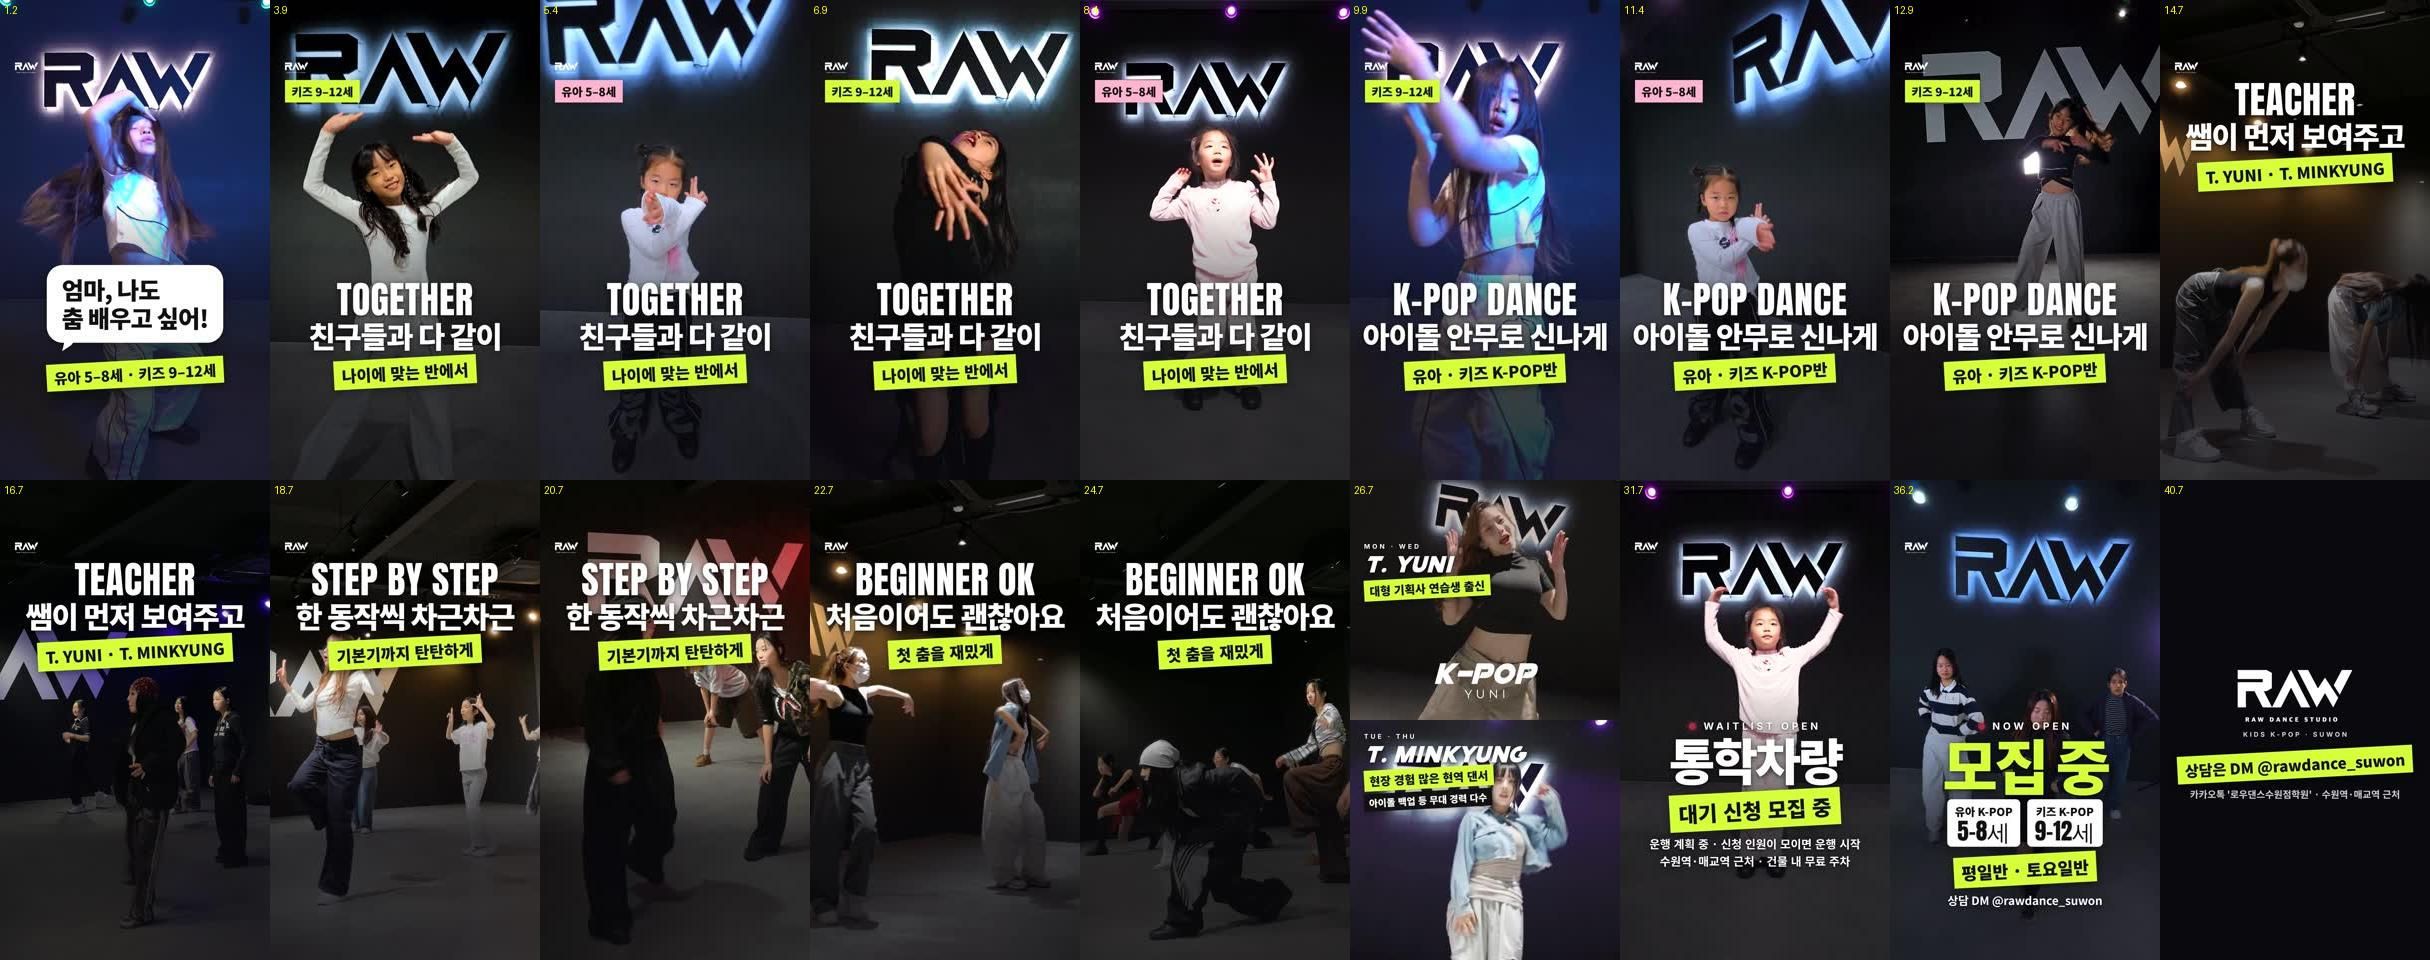
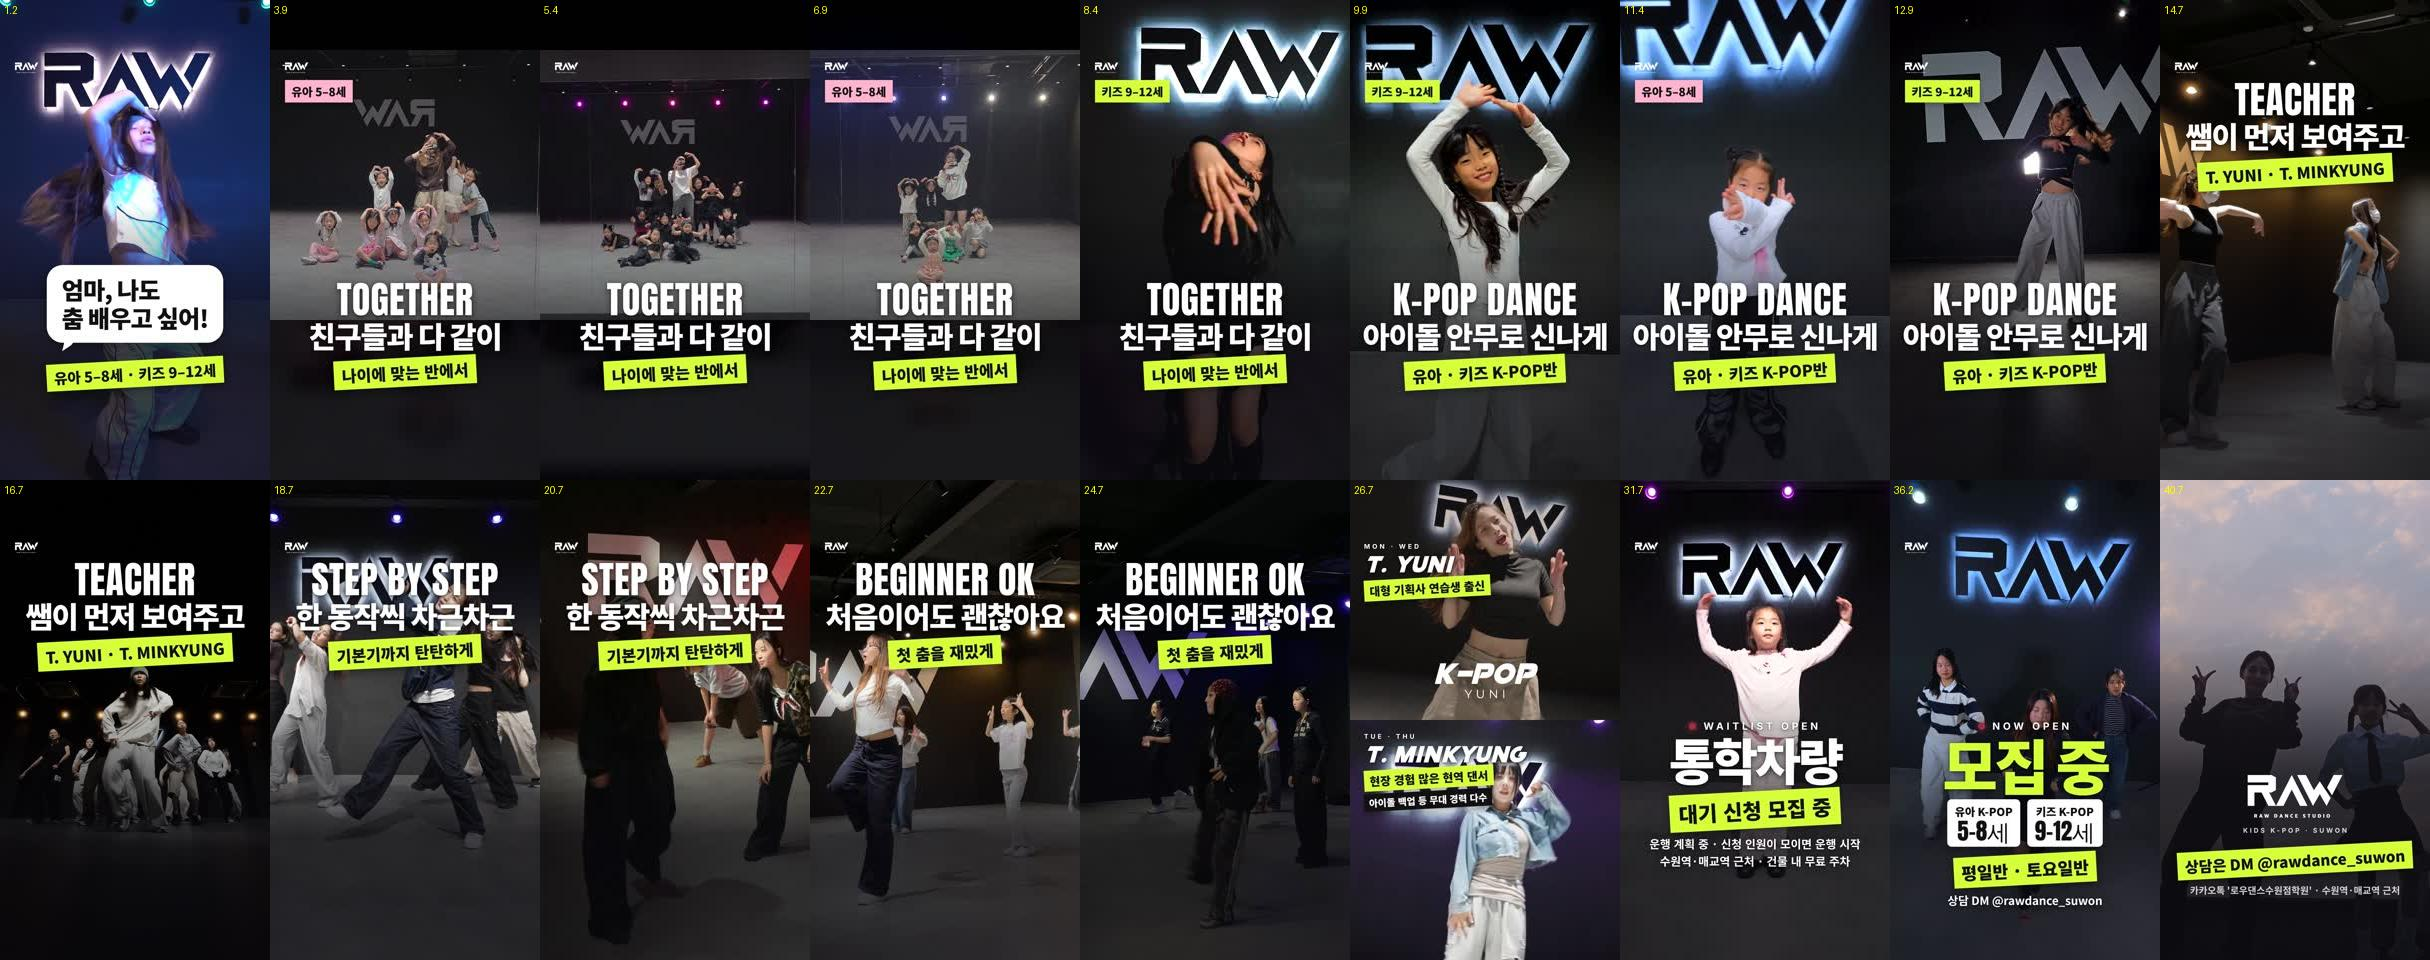
K-POP 광고 B2: 영상마다 한 번만 (하트 단체샷·유니쌤 C1912·민경쌤 시퀀스26 추가), 엔딩 옥상 인사 영상
Claude-Session: https://claude.ai/code/session_01CMPXWNa21Fqq6srPZpa27D

diff --git a/content/2026-11-20_kpop-kids-reels3/reels.html b/content/2026-11-20_kpop-kids-reels3/reels.html
@@ -148,6 +148,8 @@ window.render=t=>{
     I.querySelectorAll('.cls div').forEach((c,j)=>{ const p=eo((v-0.3-0.12*j)/0.2); c.style.opacity=p; c.style.transform=`translateY(${(1-p)*30}px)`; });
     const Vn=I.querySelector('.van'); if(Vn){ const p=eo((v-0.05)/0.22); Vn.style.transform=`scale(${1.2-0.2*p})`; Vn.style.opacity=p; }
     const M=I.querySelector('.mz'); if(M){ const p=eo((v-0.1)/0.22); M.style.transform=`scale(${1.25-0.25*p})`; M.style.opacity=p; } }
-  if(k==='logo'){ show('end',true); $('end').style.opacity=eo(v/0.35); pop($('end').querySelector('.lime'),v,0.4); }
+  if(k==='logo'){ show('end',true); const En=$('end'); En.style.background=s.bg?'linear-gradient(rgba(11,10,15,.15),rgba(11,10,15,.25) 30%,rgba(11,10,15,.82) 62%,rgba(11,10,15,.9))':'#0b0a0f';
+    En.querySelector('.c').style.top=s.bg?'1180px':'760px'; En.querySelector('img').style.width=s.bg?'380px':'460px';
+    En.style.opacity=s.bg?1:eo(v/0.35); const C=En.querySelector('.c'); C.style.opacity=eo((v-(s.bg?0.6:0))/0.4); pop(En.querySelector('.lime'),v,s.bg?0.9:0.4); }
 };
 </script></body></html>

diff --git a/content/2026-11-20_kpop-kids-reels3/make_reels.py b/content/2026-11-20_kpop-kids-reels3/make_reels.py
@@ -75,11 +75,18 @@ def seg(spec, d, out):
     lay = spec[0]
     if lay == "fill":       # 세로 꽉 채우기 (4번째 값 = 확대: 가운데 x·y 비율, 남길 크기 비율)
         f, t = spec[1], spec[2]; z = spec[3] if len(spec) > 3 else None; f = P(f)
+        if z and z[0] == "src":   # 원본에서 직접 9:16 (가운데 cx·cy, 높이 비율 hf)
+            _, cx, cy, hf = z; w0, h0 = size(f); ch = h0 * hf; cw = ch * 9 / 16
+            x = min(max(0, cx * w0 - cw / 2), w0 - cw); y = min(max(0, cy * h0 - ch / 2), h0 - ch)
+            enc(["-ss", f"{t:.3f}", "-t", f"{d:.3f}", "-i", f, "-vf", f"crop={int(cw)//2*2}:{int(ch)//2*2}:{int(x)}:{int(y)},scale=1080:1920,fps={FPS},setsar=1"], out); return
         lift = ",eq=brightness=0.05:contrast=1.08:saturation=1.12" if os.path.basename(f).startswith("m") else ""   # 민경쌤 수업 영상은 어두워서 살짝 밝게
         enc(["-ss", f"{t:.3f}", "-t", f"{d:.3f}", "-i", f, "-vf", f"{fit(f, t, d, 1080, 1920)}{zoom(z)}{lift},fps={FPS},setsar=1"], out)
     elif lay == "square":   # 정사각 티저: 뒤는 같은 영상 흐리게, 앞은 정사각 그대로 (티저 속 'K-POP 쌤이름' 글자 살림)
-        _, f, t, Y = spec; c = CUT.get(f); f = P(f)
-        sq = f"crop={c}:{c}:{(1080 - c) // 2}:0,scale=1080:1080" if c else "scale=1080:1080"
+        f, t, Y = spec[1], spec[2], spec[3]; cx = spec[4] if len(spec) > 4 else 0.5; c = CUT.get(f); f = P(f)
+        w0, h0 = size(f)
+        if c: sq = f"crop={c}:{c}:{(1080 - c) // 2}:0,scale=1080:1080"
+        elif w0 > h0: sq = f"crop=ih:ih:{int(min(max(0, cx * w0 - h0 / 2), w0 - h0))}:0,scale=1080:1080"   # 가로 단체샷: 정사각으로 (아이들 다 보이게)
+        else: sq = "scale=1080:1080"
         enc(["-ss", f"{t:.3f}", "-t", f"{d:.3f}", "-i", f, "-filter_complex",
              f"[0:v]fps={FPS},split[a][b];[a]scale=-2:1920,crop=1080:1920,boxblur=40:2,eq=brightness=-0.32[bg];[b]{sq}[fg];[bg][fg]overlay=0:{Y},setsar=1"], out)
     elif lay == "split":    # 위아래 2분할 (각 1080×960)
@@ -152,34 +159,32 @@ elif WHICH == "B":
             (8, ("fill", "1119_kids_insta.mp4", pk("1119_kids_insta.mp4", 2)[1]), INFO[0]), (8, ("fill", "1021_kids.mp4", pk("1021_kids.mp4", 2)[1]), INFO[1]),
             (8, ("fill", "clip3.mp4", 0), LOGO)]
 elif WHICH == "B2":
-    # 원장님 2026-11-20 (3차): 순서 = 엄마 나 춤 배우고 싶어 → 아이들(친구들과 다 같이 + 한 줄 더) → 쌤 수업(먼저 보여주고 · 한 동작씩 차근차근 · 처음이어도 괜찮아요)
-    #   → 쌤 2분할 → 통학차량 대기 신청 모집 중 + 유아·키즈반 모집 중 (모집 문구 눈에 띄게). 살짝 길어져도 됨. 음원은 Street Fighters 말고 다른 곡
-    # 쌤 수업 컷: YUNI(IMG_1053)·민경쌤(IMG_0620·1076·0415) 번갈아, 쌤 쪽 확대 (전문반 학생 얼굴 크게 안 나오게, 검수 조건)
+    # 원장님 2026-11-20~21 누적: 엄마 말풍선 → 아이들(TOGETHER · K-POP DANCE) → 쌤 수업(먼저 보여주고 · 차근차근 · 처음이어도) → 쌤 2분할
+    #   → 통학차량 대기 신청 모집 중 → 유아·키즈반 모집 중(체포하겠어 영상, 48초가 마지막) → 엔딩
+    # 11-21 "중복 영상이 너무 많아, 다양하게" → 영상마다 딱 한 번만 나오게:
+    #   아이들 = clip3 · 하트 단체샷 3개(nk1~3) · 1119 · 1021 · 1118 · 1104 · 1112 (9개 각 1번)
+    #   쌤 = 유니쌤 IMG_0316 · C1912 · IMG_1053 / 민경쌤 시퀀스26 · IMG_1076 · IMG_0620 (6개 각 1번)
+    #   엔딩 = 옥상 영상(nk4_roof, 인사하는 장면) 위에 로고 — 원장님 "인사하는 장면, 엔딩으로"
     song, bpm, first = "party.wav", 120.0, 0.029
-    ys, ms = yt(1, 5.2), mt(1, 5.2); ZN6 = (0.45, 0.66, 0.65)
-    # 원장님 2026-11-20 "자막 위·아래가 너무 허전" → 위에 큰 영문, 아래에 연두 띠
+    ys, ms = yt(1, 5.2), mt(1, 5.2); ZN6 = (0.45, 0.66, 0.65); ZN5 = (0.48, 0.74, 0.72); Y5 = pk("n5_img0316.mov", 1, 2.2)
     K1 = {"kind": "line", "k": "TOGETHER", "e": "친구들과 다 같이", "sub": "나이에 맞는 반에서", "y": 1130}
     K2 = {"kind": "line", "k": "K-POP DANCE", "e": "아이돌 안무로 신나게", "sub": "유아 · 키즈 K-POP반", "y": 1130}
     T1 = {"kind": "line", "k": "TEACHER", "e": "쌤이 먼저 보여주고", "sub": "T. YUNI · T. MINKYUNG", "y": 330}
     T2 = {"kind": "line", "k": "STEP BY STEP", "e": "한 동작씩 차근차근", "sub": "기본기까지 탄탄하게", "y": 330}
     T3 = {"kind": "line", "k": "BEGINNER OK", "e": "처음이어도 괜찮아요", "sub": "첫 춤을 재밌게", "y": 330}
-    ZN5 = (0.48, 0.74, 0.72); Y5 = pk("n5_img0316.mov", 2, 2.2, gap=6.0)
     used = pk("1112_yua_insta.mp4", 2)[0]; VAN = next(t for t in pk("1112_yua_insta.mp4", 4, 4.8, gap=3.0) if abs(t - used) >= 8)
     k = lambda f, i, beats, txt, tag, off=0.3: (beats, ("fill", f, pk(f, 2)[i] + off), dict(txt, tag=tag))
+    G = lambda f, cx, tag="": (3, ("square", f, 0.2, 200, cx), dict(K1, tag=tag) if tag else K1)   # 하트 단체샷 (2초 남짓)
     plan = [(6, ("fill", "clip3.mp4", pk("clip3.mp4", 2)[0]), {"kind": "bubble", "say": "엄마, 나도<br>춤 배우고 싶어!", "band": "유아 5–8세 · 키즈 9–12세"}),
-            k("1021_kids.mp4", 0, 3, K1, "키즈 9–12세"), k("1118_yua.mp4", 0, 3, K1, "유아 5–8세"), k("1119_kids_insta.mp4", 0, 3, K1, "키즈 9–12세"), k("1112_yua_insta.mp4", 0, 3, K1, "유아 5–8세"),
-            k("clip3.mp4", 1, 3, K2, "키즈 9–12세"), k("1118_yua.mp4", 1, 3, K2, "유아 5–8세"), k("1104_kpop.mp4", 0, 3, K2, "키즈 9–12세"),
-            # 원장님 2026-11-20: IMG_0316 = 유니쌤 설명 영상 → 유니쌤 컷도 영상 두 개로 (IMG_0316 · IMG_1053 · IMG_0316)
-            (4, ("fill", "n5_img0316.mov", Y5[0], ZN5), T1), (4, ("fill", "m0620.mov", 2.4, (0.45, 0.6, 0.6)), T1),
-            (4, ("fill", CLS, 5.5, ZN6), T2), (4, ("fill", "m1076.mov", 0.2, (0.42, 0.66, 0.68)), T2),
-            (4, ("fill", "n5_img0316.mov", Y5[1], ZN5), T3), (4, ("fill", "m0415.mov", 8.5, (0.38, 0.66, 0.62)), T3),
+            G("nk3.mp4", 0.47, "유아 5–8세"), G("nk1.mp4", 0.5), G("nk2.mp4", 0.52, "유아 5–8세"), k("1119_kids_insta.mp4", 0, 3, K1, "키즈 9–12세"),
+            k("1021_kids.mp4", 0, 3, K2, "키즈 9–12세"), k("1118_yua.mp4", 0, 3, K2, "유아 5–8세"), k("1104_kpop.mp4", 0, 3, K2, "키즈 9–12세"),
+            (4, ("fill", "n5_img0316.mov", Y5[0], ZN5), T1), (4, ("fill", "n9_seq26.mp4", 4.0), T1),
+            (4, ("fill", "n10_c1912.mp4", 15.0), T2), (4, ("fill", "m1076.mov", 0.2, (0.42, 0.66, 0.68)), T2),
+            (4, ("fill", CLS, 5.5, ZN6), T3), (4, ("fill", "m0620.mov", 2.4, (0.45, 0.6, 0.6)), T3),
             (10, ("split", (YT, ys[0]), (MT, ms[0])), {"kind": "pair"}),
-            # 원장님 2026-11-20 "35초쯤 로고가 갑자기 뜬다" → 배경 영상이 원본 끝(박힌 RAW 로고·검은 화면)까지 넘어가서, 4.5초 통째로 안전한 구간으로 고름
-            # 원장님 2026-11-20 "엔딩샷에 중복 영상이네 → 이 영상(YUNI 반 3명, n8_hobby.mp4)에서 적절한 걸로" — 앞 3초 제목·끝 로고 빼고 4~48초에서 고름
-            # 원장님 2026-11-20 "통학차량이랑 모집 중이 왜 같은 영상이냐 / 엔딩만 이 영상, 통학차량은 다른 영상" → 통학차량 = 유아반 영상(앞 몽타주와 8초 이상 떨어진 구간)
-            (9, ("fill", "1112_yua_insta.mp4", VAN), {"kind": "info", "i": 4}),   # 통학차량 대기 신청 모집 중
-            (9, ("fill", "n8_hobby.mp4", 48.0 - 9 * 60 / bpm), {"kind": "info", "i": 3}),   # 유아·키즈반 모집 중 (엔딩) — 원장님 "48초가 마지막 장면, 엔딩 로고 전에"
-            (6, ("fill", "clip3.mp4", 0), LOGO)]
+            (9, ("fill", "1112_yua_insta.mp4", VAN), {"kind": "info", "i": 4}),                       # 통학차량 대기 신청 모집 중
+            (9, ("fill", "n8_hobby.mp4", 48.0 - 9 * 60 / bpm), {"kind": "info", "i": 3}),             # 유아·키즈반 모집 중 (체포하겠어 영상, 48초가 마지막)
+            (7, ("fill", "nk4_roof.mp4", 37.2 - 7 * 60 / bpm, ("src", 0.475, 0.5, 1.0)), {"kind": "logo", "bg": 1})]   # 엔딩: 옥상에서 인사 + 로고
 else:
     song, bpm, first = "madness.wav", 130.0, 0.435
     CUT[YT] = 766   # 2분할 위 화면에서 YUNI 티저 글자가 첫 화면 'K-POP KIDZ'·가운데 띠와 겹쳐서 C만 YUNI도 잘라 씀
@@ -199,7 +204,7 @@ else:
 B = 60 / bpm; tmp = tempfile.mkdtemp(prefix="raw-reels3-"); segs = []; tl = []; t = 0.0
 for i, (beats, spec, txt) in enumerate(plan):
     d = beats * B; out = os.path.join(tmp, f"{i:02d}.mp4")
-    if txt.get("kind") != "logo": seg(spec, d, out)
+    if txt.get("kind") != "logo" or txt.get("bg"): seg(spec, d, out)
     else: enc(["-f", "lavfi", "-i", f"color=c=0x0b0a0f:s=1080x1920:r={FPS}", "-t", f"{d:.3f}"], out)
     segs.append(out); tl.append(dict(txt, t0=round(t, 3), t1=round(t + d, 3), src=spec[1] if spec[0] != "split" else f"{spec[1][0]} / {spec[2][0]}")); t += d
 # 같은 글자가 이어지는 장면은 한 묶음 (글자 애니메이션이 컷마다 다시 시작하지 않게)

diff --git a/content/2026-11-20_kpop-kids-reels3/instagram.md b/content/2026-11-20_kpop-kids-reels3/instagram.md
@@ -81,21 +81,23 @@
 #수원키즈댄스 #수원유아댄스 #수원kpop댄스 #키즈케이팝 #로우댄스수원점
 ```
 
-## B2. 원장님 선택안 — "엄마, 나도 춤 배우고 싶어" · 42.5초 · `KPOP_reel_B2.mp4` (Private Party 120 BPM)
+## B2. 원장님 선택안 — "엄마, 나도 춤 배우고 싶어" · 43초 · `KPOP_reel_B2.mp4` (Private Party 120 BPM)
 > 원장님 2026-11-20: B 느낌 좋음 → STEP 1·2·3 빼고, 시작만 아이 말투, 민경쌤 수업 영상 새로 올림
 > 원장님 2026-11-20 3차: "아이들 춤 영상이 앞, 쌤 설명은 뒤 / 노래는 Street Fighters 말고 다른 곡 / 차량 멘트 빠졌잖아, 살짝 길어져도 됨 / 순서 = 엄마 나 춤 배우고 싶어 → 친구들과 같이 + 멘트 하나 더 → 쌤(먼저 보여주고 · 한 동작씩 차근차근 · 초보도 괜찮다) → 쌤 2분할 → 차량통학 모집 중 + 키즈·유아반 모집 중, 모집 멘트는 눈에 띄게"
 > 원장님 2026-11-20 "엔딩샷에 중복 영상" → 끝 모집 화면 2장 배경을 원장님이 준 YUNI 반 영상(앞 자막 '취미 K-POP YUNI')으로 교체 = 원장님 선택
 > 원장님 확인 2026-11-20: 아이돌 안무 "그대로 써"(docs/instagram-ads.md 예외 기록) / 민경쌤 전문반 영상 3개 학교명 "안 보여"
 
+> 원장님 2026-11-21 "중복 영상이 너무 많아, 다양하게" → 영상마다 한 번만: 아이들 9개(clip3·하트 단체샷 3개·1119·1021·1118·1104·1112), 쌤 6개(유니쌤 IMG_0316·C1912·IMG_1053 / 민경쌤 시퀀스26·IMG_1076·IMG_0620), 엔딩은 옥상 인사 영상(원장님 "엔딩으로") 위에 로고 · 43초
+
 | 시간 | 화면 | 글자 |
 |---|---|---|
-| 0~3초 | 키즈반 아이 춤 | 말풍선(••• 뒤 톡) "엄마, 나도 춤 배우고 싶어!" / 연두 띠 "유아 5–8세 · 키즈 9–12세" |
-| 3~9초 | 유아·키즈 4컷 | "TOGETHER / 친구들과 다 같이 / 나이에 맞는 반에서" (컷마다 유아 5–8세 / 키즈 9–12세) |
-| 9~13.5초 | 유아·키즈 3컷 | "K-POP DANCE / 아이돌 안무로 신나게 / 유아 · 키즈 K-POP반" (나이 표시) |
-| 13.5~25.5초 | 유니쌤 설명(IMG_0316) · 민경쌤(IMG_0620) · 유니쌤 수업(IMG_1053) · 민경쌤(IMG_1076) · 유니쌤 설명(IMG_0316) · 민경쌤(IMG_0415) 2초씩 번갈아 6컷 (원장님 11-20: IMG_0316 = 유니쌤 설명 영상), 쌤 쪽 확대 | "TEACHER / 쌤이 먼저 보여주고 / T. YUNI · T. MINKYUNG" → "STEP BY STEP / 한 동작씩 차근차근 / 기본기까지 탄탄하게" → "BEGINNER OK / 처음이어도 괜찮아요 / 첫 춤을 재밌게" |
+| 0~3초 | 키즈반 아이 춤 (clip3) | 말풍선(••• 뒤 톡) "엄마, 나도 춤 배우고 싶어!" / 연두 띠 "유아 5–8세 · 키즈 9–12세" |
+| 3~9초 | 하트 단체샷 3개(정사각, 아이들 다 보이게) + 키즈 1컷 | "TOGETHER / 친구들과 다 같이 / 나이에 맞는 반에서" (유아·키즈 표시) |
+| 9~13.5초 | 키즈·유아 3컷 | "K-POP DANCE / 아이돌 안무로 신나게 / 유아 · 키즈 K-POP반" |
+| 13.5~25.5초 | 유니쌤·민경쌤 번갈아 6컷 (영상 6개 각 1번, 쌤 쪽 확대) | "TEACHER / 쌤이 먼저 보여주고 / T. YUNI · T. MINKYUNG" → "STEP BY STEP / 한 동작씩 차근차근 / 기본기까지 탄탄하게" → "BEGINNER OK / 처음이어도 괜찮아요 / 첫 춤을 재밌게" |
 | 25.5~30.5초 | 위 YUNI 티저 · 아래 MINKYUNG 티저 | 요일 · 이름 · 이력 |
-| 30.5~35초 | 통학차량 (배경: 유아반 영상, 앞 몽타주와 다른 구간 — 원장님 11-20 "통학차량은 다른 영상") | "● WAITLIST OPEN / 통학차량 / 대기 신청 모집 중 / 운행 계획 중 · 신청 인원이 모이면 운행 시작 / 수원역·매교역 근처 · 건물 내 무료 주차" |
-| 35~39.5초 | 반 모집 (배경: 원장님이 준 YUNI 반 3명 영상, 원본 48초가 마지막 장면 — 엔딩에만) | "● NOW OPEN / 모집 중 / [유아 K-POP 5–8세] [키즈 K-POP 9–12세] / 평일반 · 토요일반 / 상담 DM @rawdance_suwon" |
-| 39.5~42.5초 | 끝 화면 | RAW 로고 / 상담은 DM @rawdance_suwon |
+| 30.5~35초 | 통학차량 (유아반 하트 컷) | "● WAITLIST OPEN / 통학차량 / 대기 신청 모집 중 / 운행 계획 중 · 신청 인원이 모이면 운행 시작 / 수원역·매교역 근처 · 건물 내 무료 주차" |
+| 35~39.5초 | 반 모집 (체포하겠어 영상, 원본 48초가 마지막) | "● NOW OPEN / 모집 중 / [유아 K-POP 5–8세] [키즈 K-POP 9–12세] / 평일반 · 토요일반 / 상담 DM @rawdance_suwon" |
+| 39.5~43초 | 엔딩: 옥상에서 인사하는 영상 위 | RAW 로고 / KIDS K-POP · SUWON / 상담은 DM @rawdance_suwon / 카카오톡 · 수원역·매교역 근처 |
 
 캡션 첫 줄: `엄마, 나도 춤 배우고 싶어! — 유아·키즈 K-POP반 모집` (아래는 공통 캡션 그대로)
